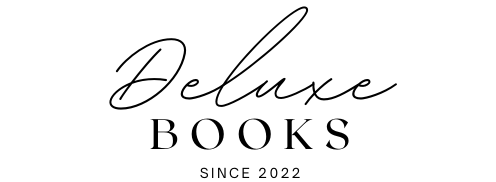
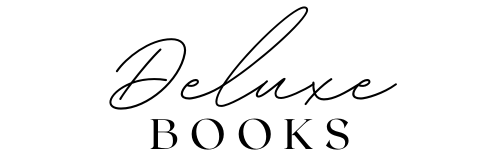
Contador para agregar al carrito - Clase 5

Changed region(s): [[0.2143, 0.0256, 0.7959, 1.0], [0.7959, 0.5385, 0.8265, 0.5641]]

diff --git a/src/components/ItemCount.js b/src/components/ItemCount.js
@@ -1,0 +1,42 @@
+import { useState } from 'react';
+
+const ItemCount = (props) =>  {
+    const [valoraciones, setValoraciones] = useState(1); //Hook
+
+    let stock = 8;
+
+
+    const increment = () => {
+        if (valoraciones < stock) {
+          setValoraciones(valoraciones+1);  
+        }
+        
+    }
+
+    const decrement = () => {
+        if (valoraciones > 1) {
+           setValoraciones(valoraciones-1); 
+        }
+    }
+
+    const alerta = () => {
+        alert(valoraciones + " productos han sido agregados al carrito")
+    }
+
+    return (
+        <>
+        <div>
+            <p>
+                <p>Hay {stock} unidades en stock</p>
+                <button onClick={increment} className="counter-button">+1</button>{valoraciones}
+                <button onClick={decrement} className="counter-button">-1</button>
+
+                <br />
+                <button onClick={alerta} className="cart-add">Agregar al Carrito</button>
+            </p>
+        </div>
+        </>
+    );
+}
+
+export default ItemCount;

diff --git a/src/App.js b/src/App.js
@@ -1,6 +1,7 @@
 import './App.css';
 import Navbar from './components/NavBar.js';
-import ItemListContainer from './components/ItemListContainer.js'
+import ItemListContainer from './components/ItemListContainer.js';
+import ItemCount from './components/ItemCount.js';
 
 function App() {
   return (
@@ -8,6 +9,7 @@ function App() {
       <Navbar />
       
       <ItemListContainer />
+      <ItemCount />
 
 
     </div>

diff --git a/src/App.css b/src/App.css
@@ -4,7 +4,7 @@
 
 .logo-img {
   width: 240px;
-  height: 90px;
+  height: 80px;
   position: relative;
   left: 21rem;
 }
@@ -22,5 +22,18 @@ nav {
 .item-container {
   text-align: center;
   font-weight: lighter;
+}
+
+.counter-button {
+    margin: 0 2% 0 2%;
+    border: none;
+    font-size: 16px;
+    
+}
+
+.cart-add {
+    border: none;
+    margin: 0 0 0 1.6%;
+    margin-top: 1%;
 }
 
